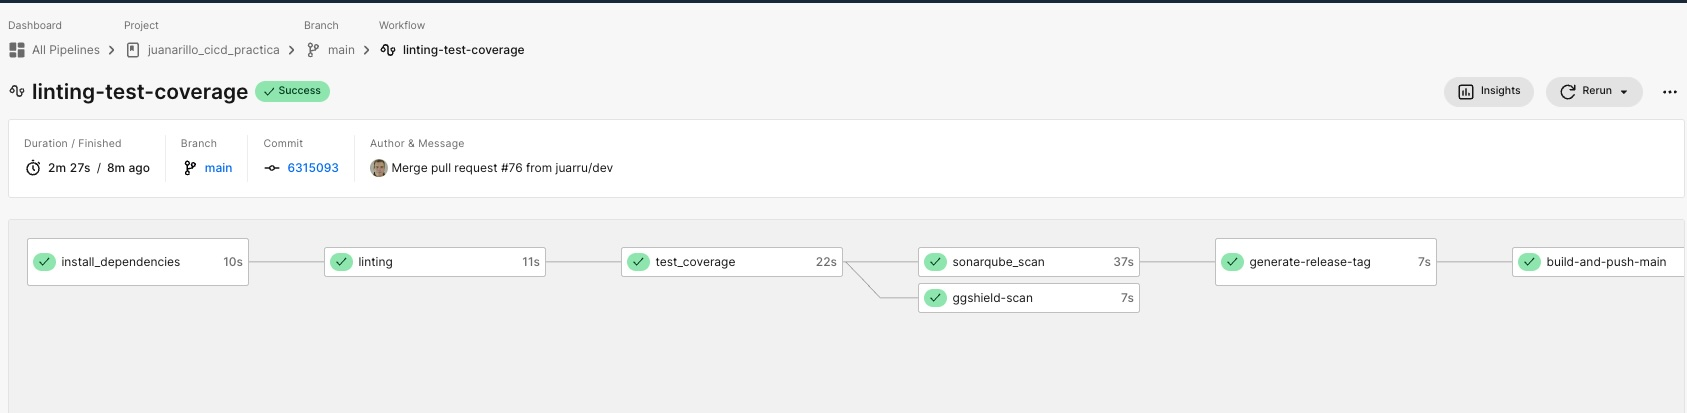
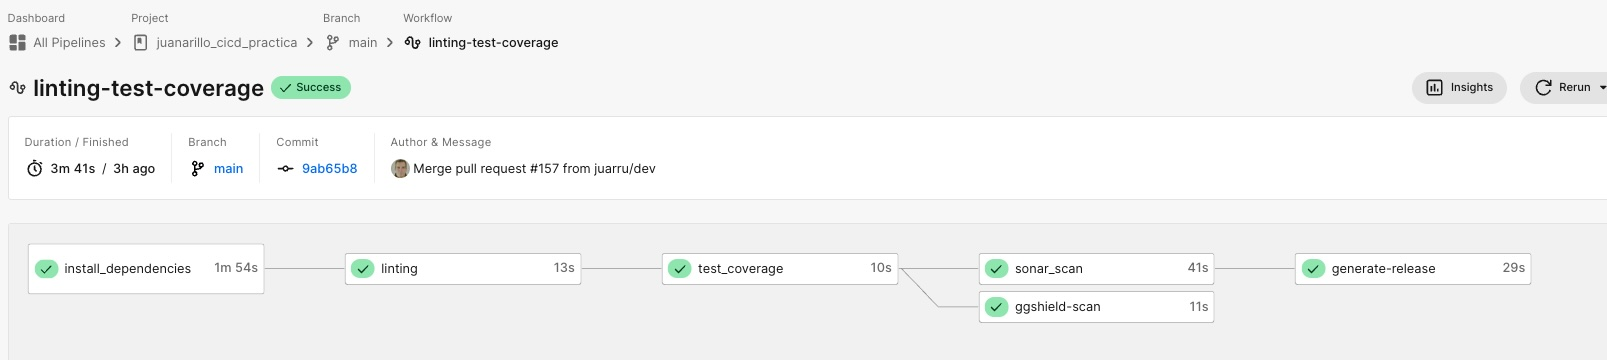
docs(readme): Updated doc. Added new pipeline process with semantic-release tagging.

diff --git a/README.md b/README.md
@@ -154,17 +154,18 @@ Al realizar la acción de mergeo en main, se activará un pipeline de *CircleCI*
 
 ![sonarqube](./imagenes/sonarqube.jpg)
 
-- Genera el nuevo TAG y crea la release en el repositorio de [*Github*](https://github.com/juarru/juanarillo_cicd_practica/releases) con su Changelog y guardando los assets de la release.
+- Al utilizar la librería de **semantic-release**, automáticamente se generará el nuevo TAG y crea la release en el repositorio de [*Github*](https://github.com/juarru/juanarillo_cicd_practica/releases) con su Changelog y guardando los assets de la release, en el caso que los tipos de commits así lo creen.
 
 ![releases](./imagenes/releases.jpg)
 
-- Construye la imagen de la aplicación, y la sube a [*Dockerhub*](https://hub.docker.com/repository/docker/juanarillo/cicd_practica/general) con su nuevo TAG y actualiza el TAG `latest`.
-
-![dockerhub](./imagenes/dockerhub.jpg)
-
-- Termina el pipeline de construcción y envío al repo.
+- Termina el pipeline de construcción.
 
 ![circle-main](./imagenes/circle-main.jpg)
+
+- Si en el proceso de construcción se ha generado un nuevo *TAG* , se lanza un workflow que construye la imagen de la aplicación, y la sube a [*Dockerhub*](https://hub.docker.com/repository/docker/juanarillo/cicd_practica/general) con su nuevo TAG y actualiza el TAG `latest`.
+
+![tag](./imagenes/tag.jpg)
+![dockerhub](./imagenes/dockerhub.jpg)
 
 ## DESPLIEGUE DE LA APLICACIÓN
 
